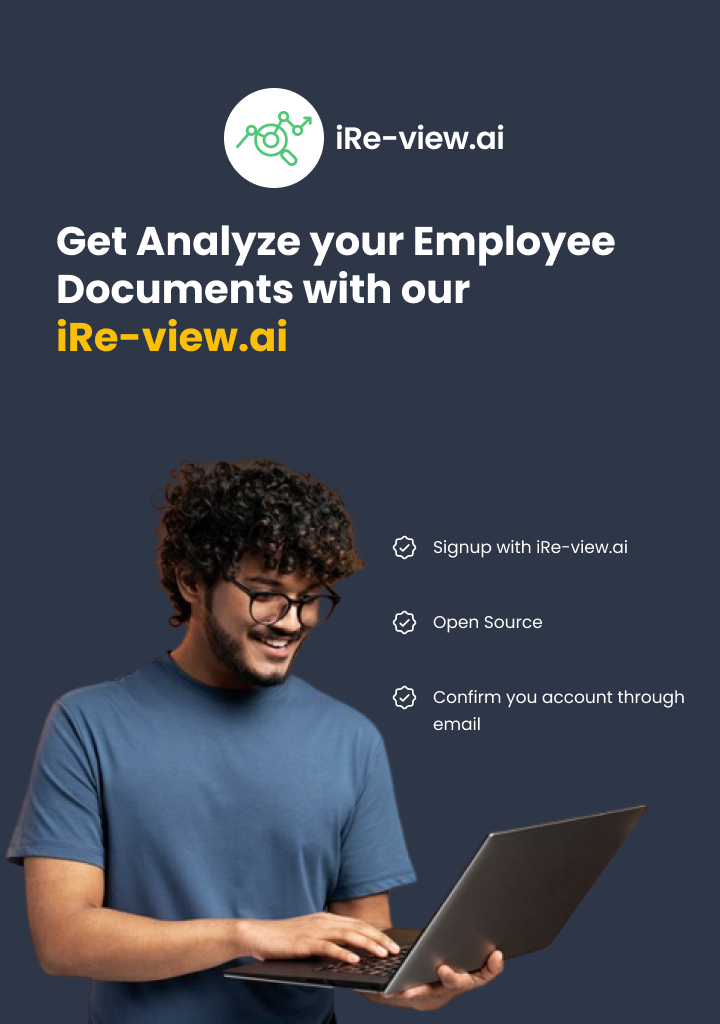
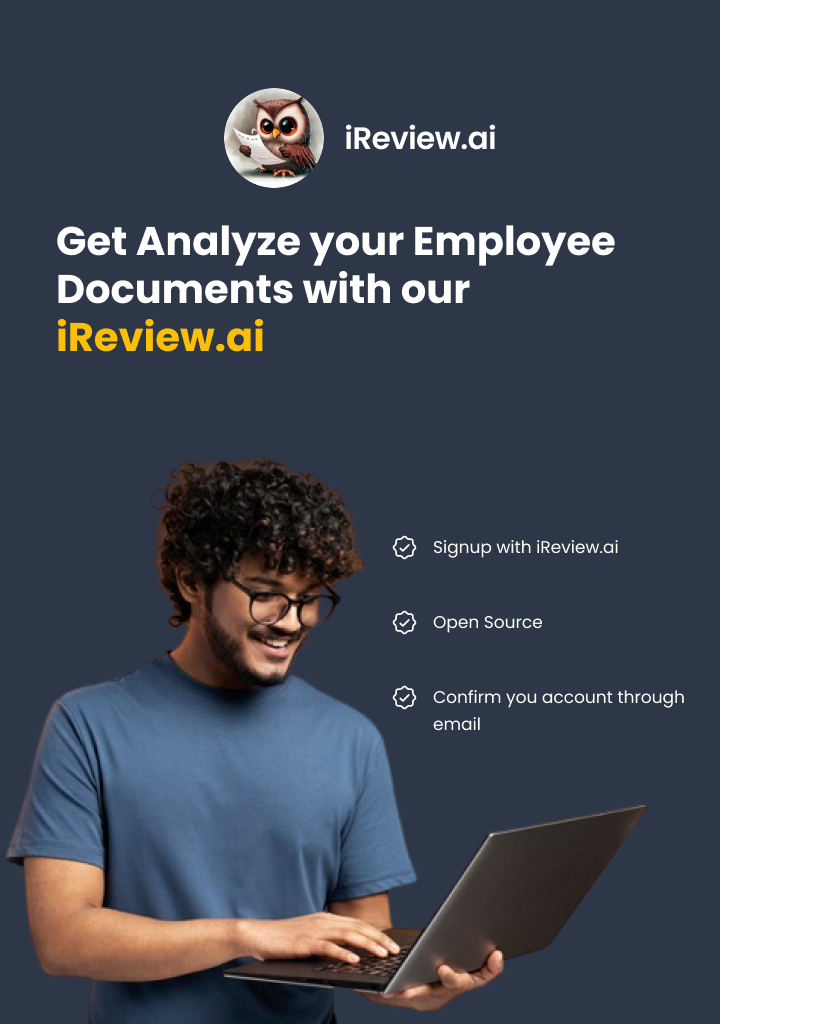
logoadded

diff --git a/src/pages/TermsandCondition.js b/src/pages/TermsandCondition.js
@@ -20,9 +20,9 @@ function TermsandCondition({ show, handleClose, onAccept }) {
           <p style={{color:"#2d3748",fontSize:15,fontWeight:700}}>
           1) General</p> 
             <p style={{color:"#5e6670",fontSize:15,fontWeight:400}}>
-            a) Thank you for visiting our Mobile Application (“Platform”). This online Platform is owned by 
+            a) Thank you for visiting our Web Application.This online Platform is owned by 
 iRe-view.ai LLC, a Delaware Limited Liability Company, having its registered office at 
-__________. Our Platform enables users to use artificial intelligence to review and 
+Delaware, 508 Main Street,Wilmington ,Zipcode-19804. Our Platform enables users to use artificial intelligence to review and 
 understand the content of their contracts like employment agreements, consulting 
 agreements, terms of employment etc. effortlessly with the click of a button. Our Platform 
 enables users to give their informed consent while entering into new contracts and 
@@ -96,7 +96,7 @@ c) Customer’s Informed, Free and Unqualified Consent allowing us to receive, s
 your information to facilitate the service desired by you- You hereby give us your informed 
 consent to receiving your Personally Identifiable Information (PII) namely their name, mobile 
 number, email ID, address etc. for the purpose of facilitating the Services desired from us by 
-You. You hereby give us your informed consent to sharing your abovementioned PII with our 
+You. You hereby give us your informed consent to sharing your above mentioned PII with our 
 service providers and the vendors who will be rendering the Services or components of the 
 Services to You. We hereby confirm that we or our subcontractors shall not use the PII 
 shared by You for any purpose other than for the facilitation of the Service to You. We 
@@ -516,7 +516,7 @@ interpreted and construed in accordance with the laws of Delaware. Any disputes 
 to the Platform shall be subject to the exclusive jurisdiction of the appropriate courts in 
 Delaware. <br/> <br/>
 d) Customer Care - In the event that You have any grievance in relation to the Platform or Our 
-Services, You may write to ____________@_______.com. Please feel free to contact Us if 
+Services, You may write to <a href=" mailto:ireviewai11@gmail.com" >ireviewai11@gmail.com.</a> Please feel free to contact Us if 
 
 You have any questions or comments on the Platform, Our Services, these Terms of Use 
 (including all inquiries related to copyright infringement) regarding these Platform.

diff --git a/src/pages/PrivacyPolicy.js b/src/pages/PrivacyPolicy.js
@@ -18,7 +18,8 @@ function PrivacyPolicy({ showPP, handleClosePP, onAcceptPP }) {
         
 <p style={{textAlign:'end'}}>Version 01, dated:18-06-2024 </p>
 <p style={{color:"#2d3748",fontSize:15,fontWeight:700}}>1. General </p>
-<p style={{color:"#5e6670",fontSize:15,fontWeight:400}}>a. The Platforms are owned and operated by iRe-view.ai LLC. The online Platforms enable 
+<p style={{color:"#5e6670",fontSize:15,fontWeight:400}}>a. The Platforms are owned and operated by iRe-view.ai LLC.a Delaware Limited Liability Company, having its registered office at 
+Delaware, 508 Main Street,Wilmington ,Zipcode-19804. The online Platforms enable 
 users to to use artificial intelligence to review and understand the content of their contracts 
 like employment agreements, consulting agreements, terms of employment etc. effortlessly 
 with the click of a button (“Services”). 
@@ -335,7 +336,7 @@ the clauses are null and void shall have no effect on the remaining clauses of t
 Policy. </p>
 <p style={{color:"#2d3748",fontSize:15,fontWeight:700}}>11. Contact Information </p>
 <p style={{color:"#5e6670",fontSize:15,fontWeight:400}}>Any feedback or comments about this Privacy Policy is welcome and can be sent to 
-customerservice@__________.com. We will employ all commercially reasonable efforts to 
+customerservice <a href=" mailto:ireviewai11@gmail.com" >ireviewai11@gmail.com.</a>. We will employ all commercially reasonable efforts to 
 address the same. </p>
         
       </Modal.Body>

diff --git a/src/components/Sidedrawer.js b/src/components/Sidedrawer.js
@@ -1,6 +1,6 @@
 import Button from 'react-bootstrap/Button';
 import React from 'react'
-import Logo from './assets/ireviwelogo.png'
+import Logo from './assets/ireviwelogo.jpg'
 import { IoMdAdd, IoMdPower } from "react-icons/io";
 import PreviousResults from './PreviousResults';
 import { useNavigate } from 'react-router-dom';
@@ -23,7 +23,7 @@ export default function Sidedrawer() {
     <div className='sidedrawer'>
  <div >
   <div className='sidemainhead'>
-    <img className='sidemainheadimg' src={Logo} alt='logoimg' />
+    <img className='sidemainheadimg'  style={{ borderRadius:50}} src={Logo} alt='logoimg' />
   <h6 className='sidemainheadimgh6'>iRe-view.ai</h6>
       </div>
 <div className='sidebuttonmain' >

diff --git a/src/pages/Pdf.js b/src/pages/Pdf.js
@@ -12,7 +12,7 @@ const  result = useSelector((state) => state.form.previous.reviewResult.reviewDa
 
     <div className='align' style={{marginTop:10}} ref={ref}>
  
-        <img src={pdflogo}  alt='img'/>
+        <img src={pdflogo}  alt='img' style={{display:'flex',alignItems:'center',justifyContent:'center',marginLeft:70}}/>
        
       <h2 style={{display:'flex',alignItems:'center',justifyContent:'center'}}>{fileName}  </h2>
       <br />

diff --git a/src/pages/ResultPdf.js b/src/pages/ResultPdf.js
@@ -15,7 +15,7 @@ console.log("apipdf",apiresponse)
 
     <div className='align' style={{marginTop:10}} ref={ref}>
  
-        <img src={pdflogo}  alt='img'/>
+        <img src={pdflogo}  alt='img' style={{display:'flex',alignItems:'center',justifyContent:'center',marginLeft:70}}/>
        
       <h2 style={{display:'flex',alignItems:'center',justifyContent:'center'}}>{firstFileName}  </h2>
       <br />
